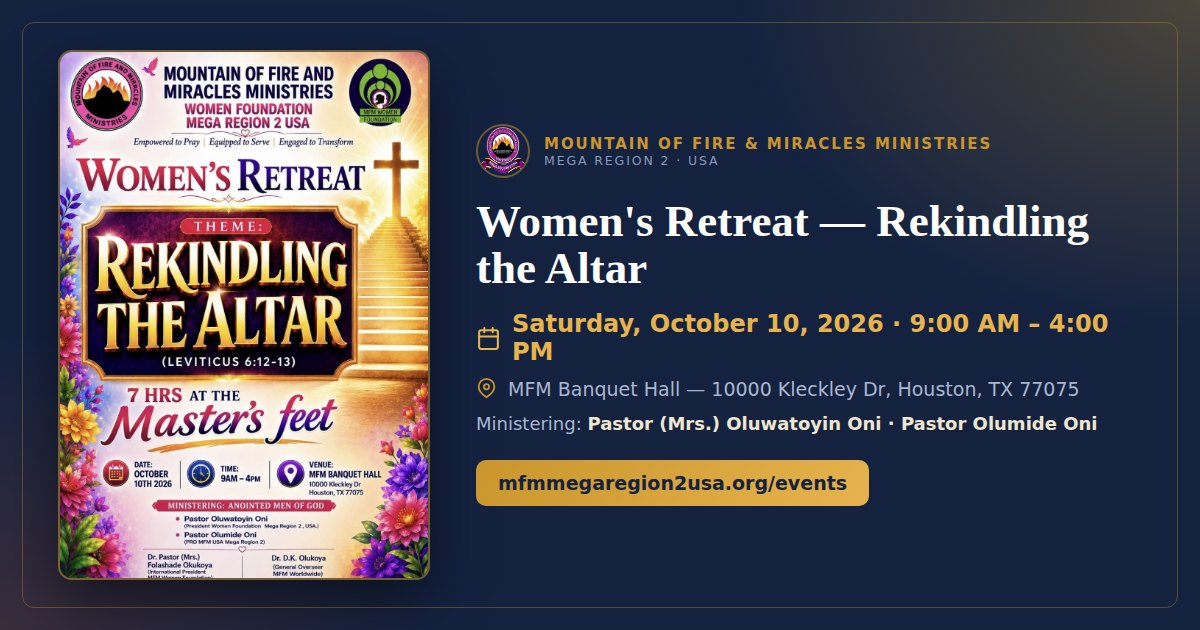
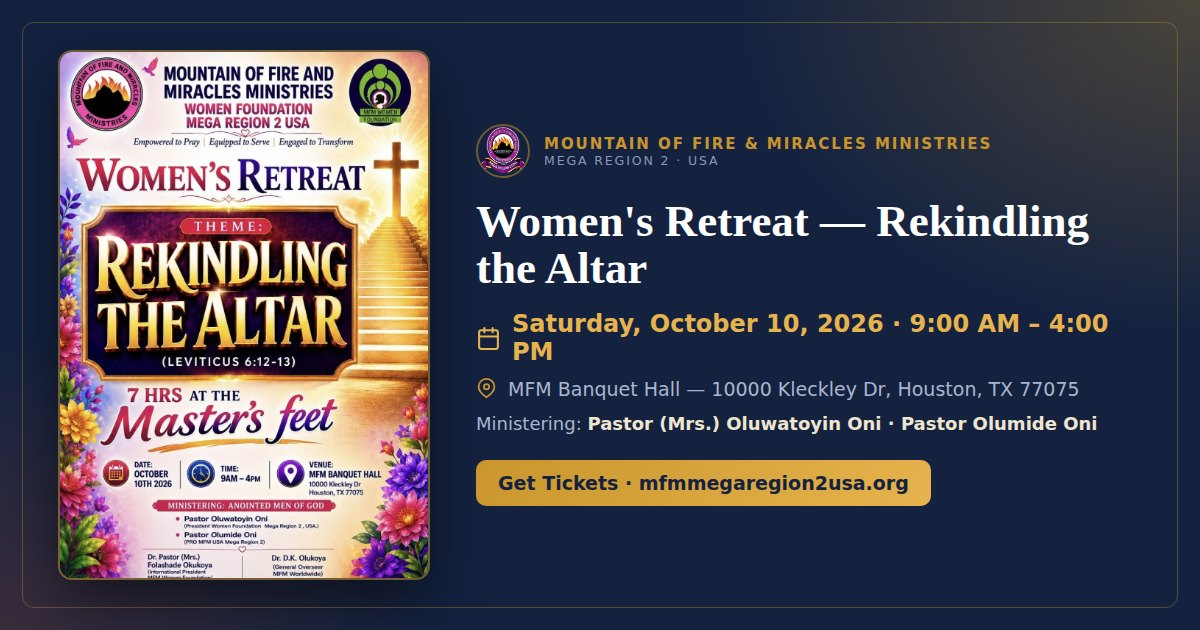
Add Eventbrite Get Tickets link to Women's Retreat (events + home + share card)

Changed region(s): [[0.4008, 0.7238, 0.8017, 0.8143]]

diff --git a/events.html b/events.html
@@ -622,6 +622,7 @@
         "image": "img/announcements/womens-retreat.jpg",
         "alt": "Women's Retreat, Rekindling the Altar — Saturday October 10, 2026, MFM Women Foundation Mega Region 2 USA",
         "anchor": "womens-retreat",
+        "link": "https://www.eventbrite.com/e/womens-retreat-2026-rekindling-the-altar-mfm-mega-region-2-tickets-1996924949279?aff=oddtdtcreator",
         "dateDisplay": "Saturday, October 10, 2026",
         "description": "A women's retreat under the Women Foundation of Mega Region 2 — seven hours at the Master's feet to rekindle the fire on the altar. A day of prayer, worship, the Word, fellowship, and transformation. Empowered to pray, equipped to serve, engaged to transform.",
         "scripture": "The fire shall ever be burning upon the altar; it shall never go out.|Leviticus 6:13",

diff --git a/index.html b/index.html
@@ -1790,7 +1790,8 @@
         "host": "MFM Women Foundation, Mega Region 2 USA",
         "image": "img/announcements/womens-retreat.jpg",
         "alt": "Women's Retreat, Rekindling the Altar — Saturday October 10, 2026, MFM Women Foundation Mega Region 2 USA",
-        "anchor": "womens-retreat"
+        "anchor": "womens-retreat",
+        "link": "https://www.eventbrite.com/e/womens-retreat-2026-rekindling-the-altar-mfm-mega-region-2-tickets-1996924949279?aff=oddtdtcreator"
       },
       {
         "date": "2026-09-20",
